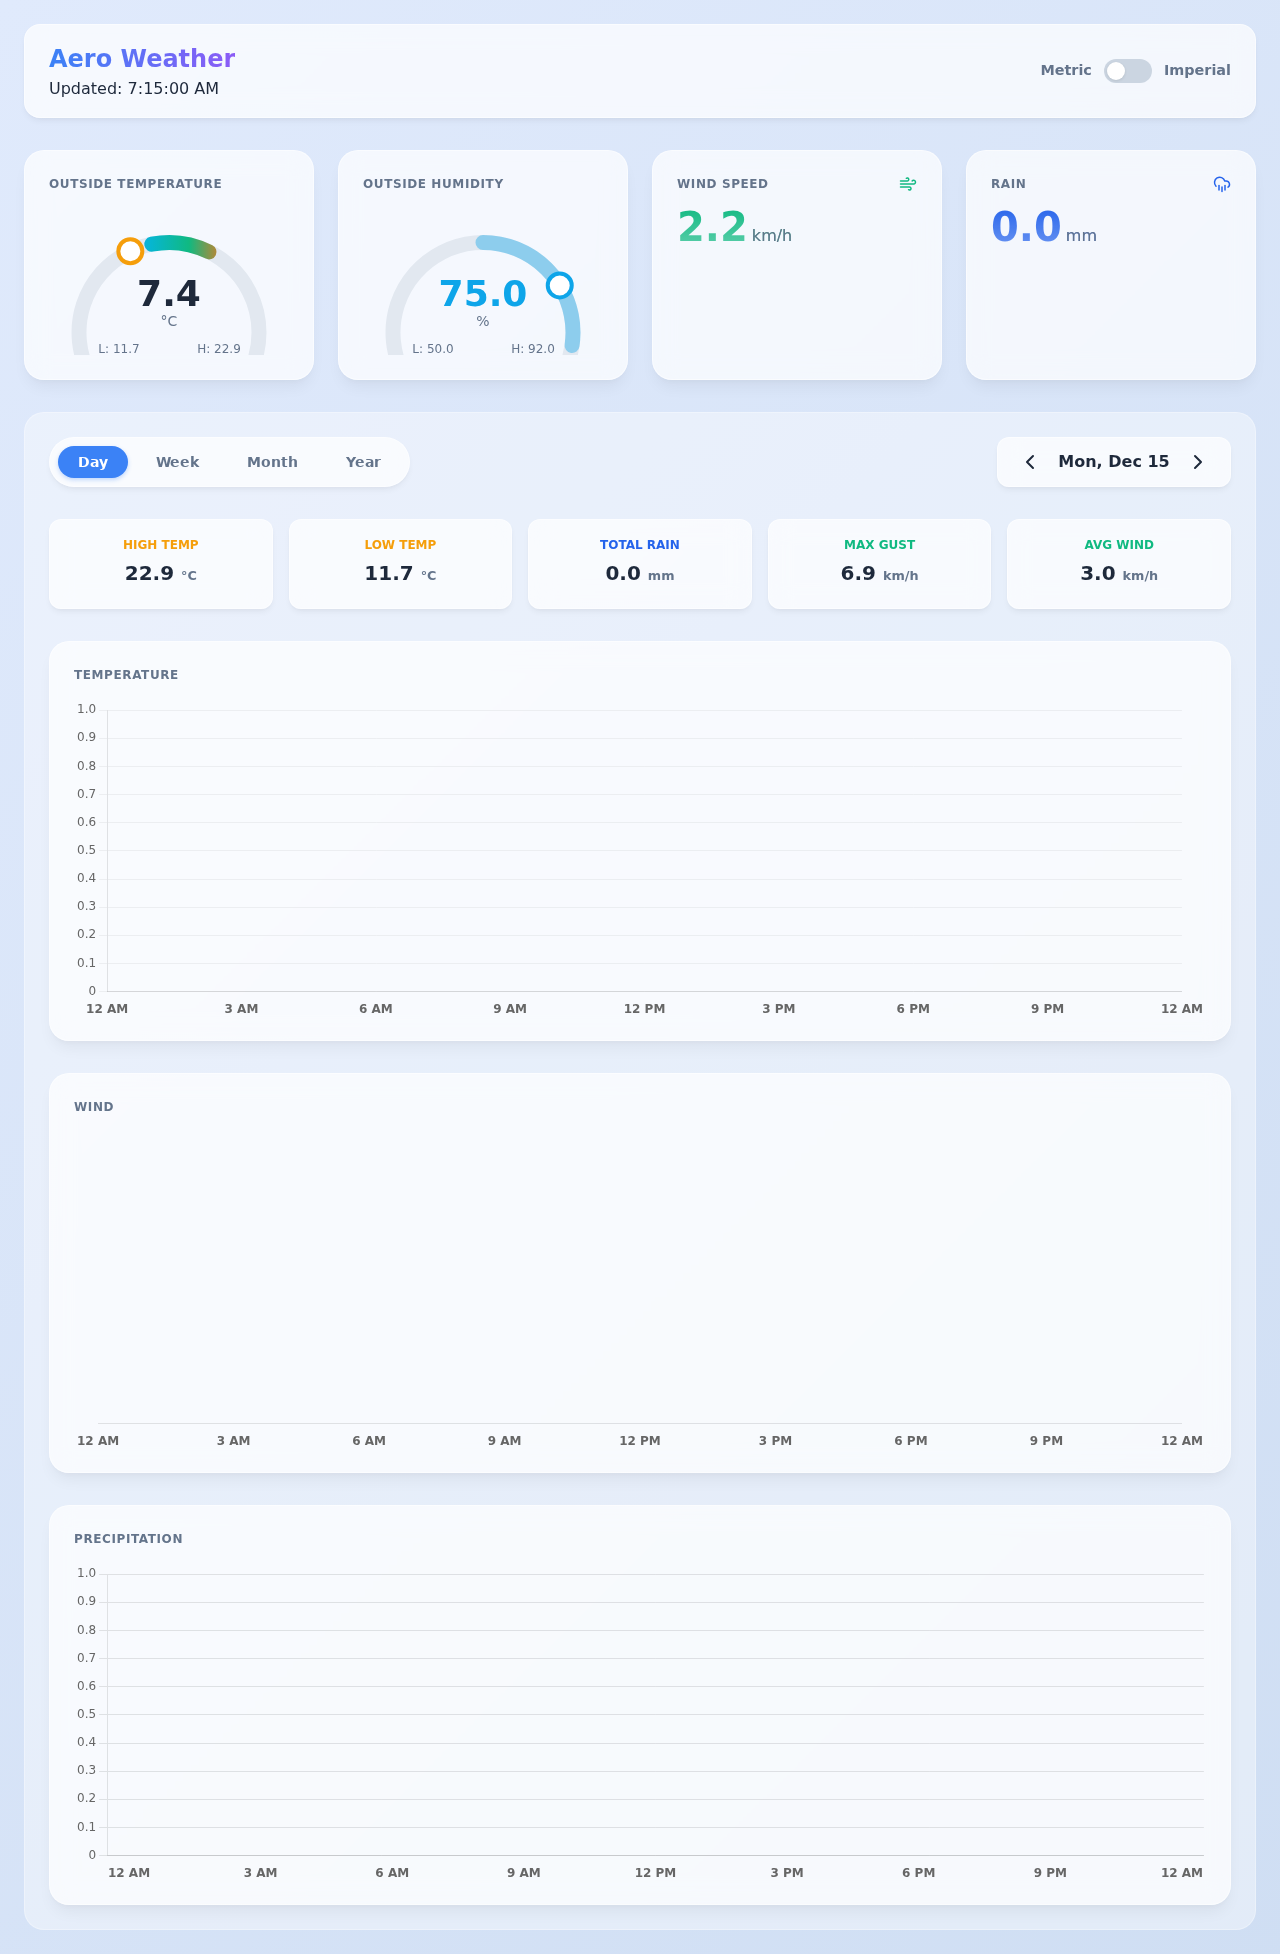
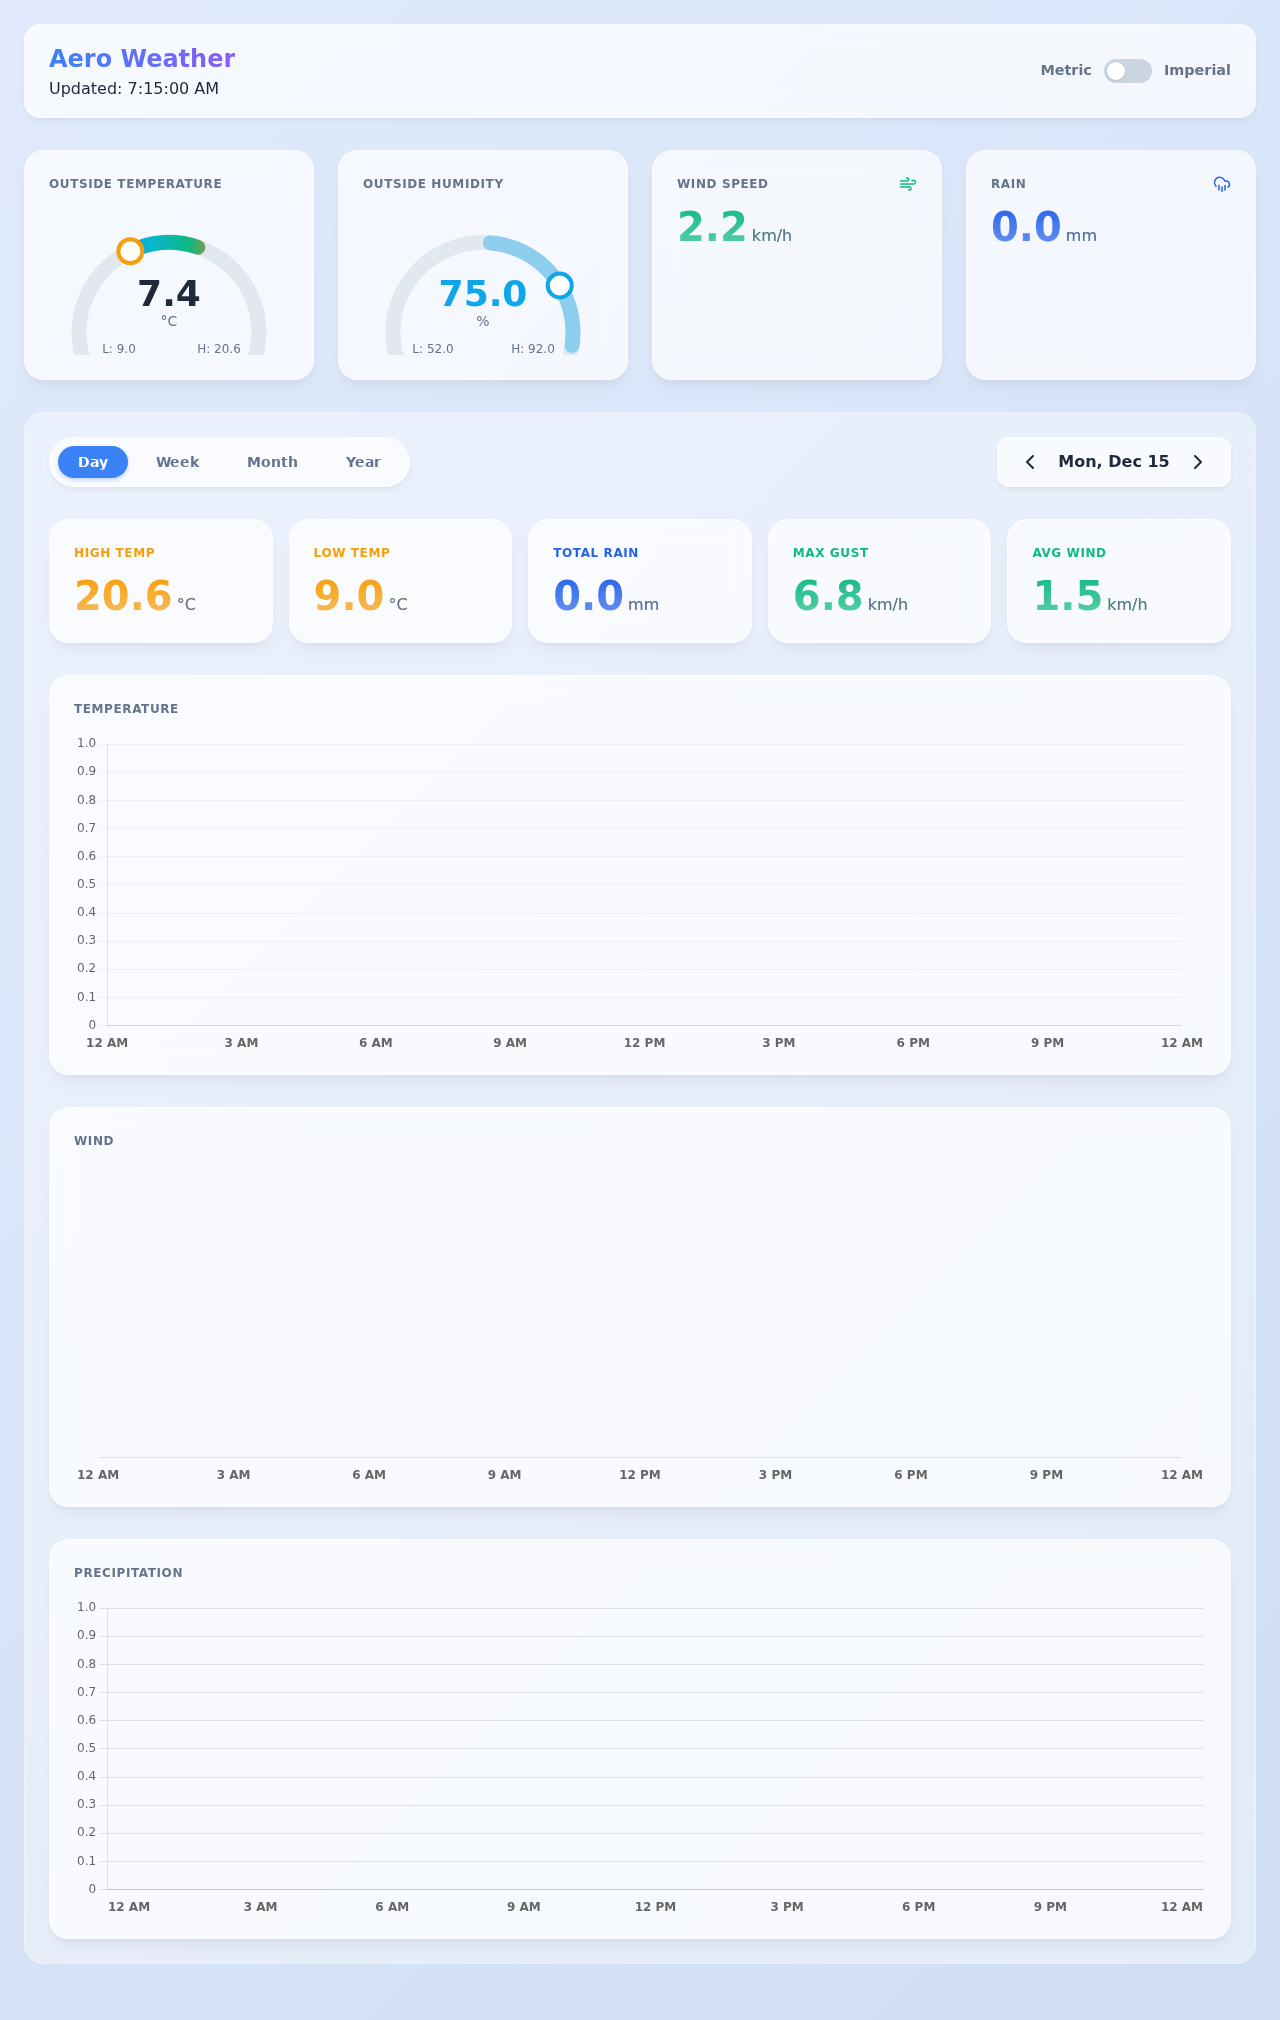
Add automation scripts, bump version to 2.1.2, and update screenshots
- Created `dev/update-version.sh` to handle synchronous version updates across `VERSION`, `skin.conf`, and `install.py`.
- Created `dev/generate-screenshots.sh` and `dev/capture_screenshots.py` (using Playwright) to automate documentation screenshots.
- Bumped version to 2.1.2.
- Updated `screenshots/aero-preview.png` to reflect the latest UI changes (historical card styling, etc.).

diff --git a/dev/capture_screenshots.py b/dev/capture_screenshots.py
@@ -1,0 +1,31 @@
+from playwright.sync_api import sync_playwright
+import time
+import os
+
+def capture():
+    output_dir = "screenshots"
+    if not os.path.exists(output_dir):
+        os.makedirs(output_dir)
+
+    with sync_playwright() as p:
+        browser = p.chromium.launch(headless=True)
+        # Set viewport to a nice desktop size
+        page = browser.new_page(viewport={'width': 1280, 'height': 800})
+
+        print("Loading page...")
+        try:
+            page.goto("http://localhost:8000/index.html")
+            page.wait_for_load_state("networkidle")
+            time.sleep(2) # Allow JS animations
+
+            # Capture main preview - Full Page to see history section too
+            page.screenshot(path=f"{output_dir}/aero-preview.png", full_page=True)
+            print(f"Saved {output_dir}/aero-preview.png")
+
+        except Exception as e:
+            print(f"Error: {e}")
+
+        browser.close()
+
+if __name__ == "__main__":
+    capture()

diff --git a/install.py b/install.py
@@ -7,7 +7,7 @@ def loader():
 class AeroInstaller(ExtensionInstaller):
     def __init__(self):
         super(AeroInstaller, self).__init__(
-            version="2.1.1",
+            version="2.1.2",
             name='aero',
             description='A premium modern skin for WeeWX with Canvas-based visualizations.',
             author="Sankara",
